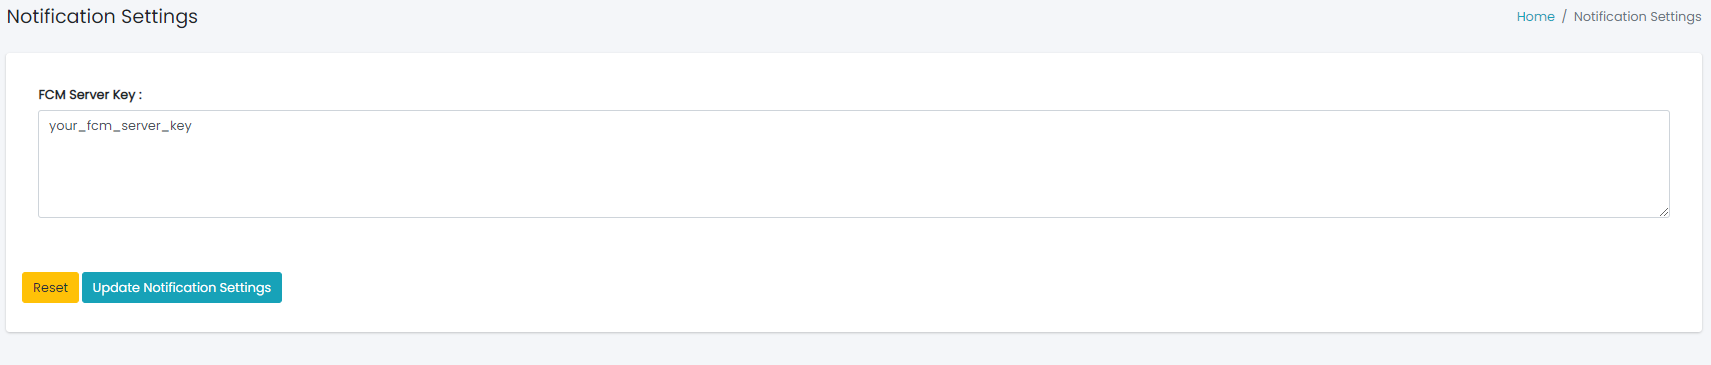
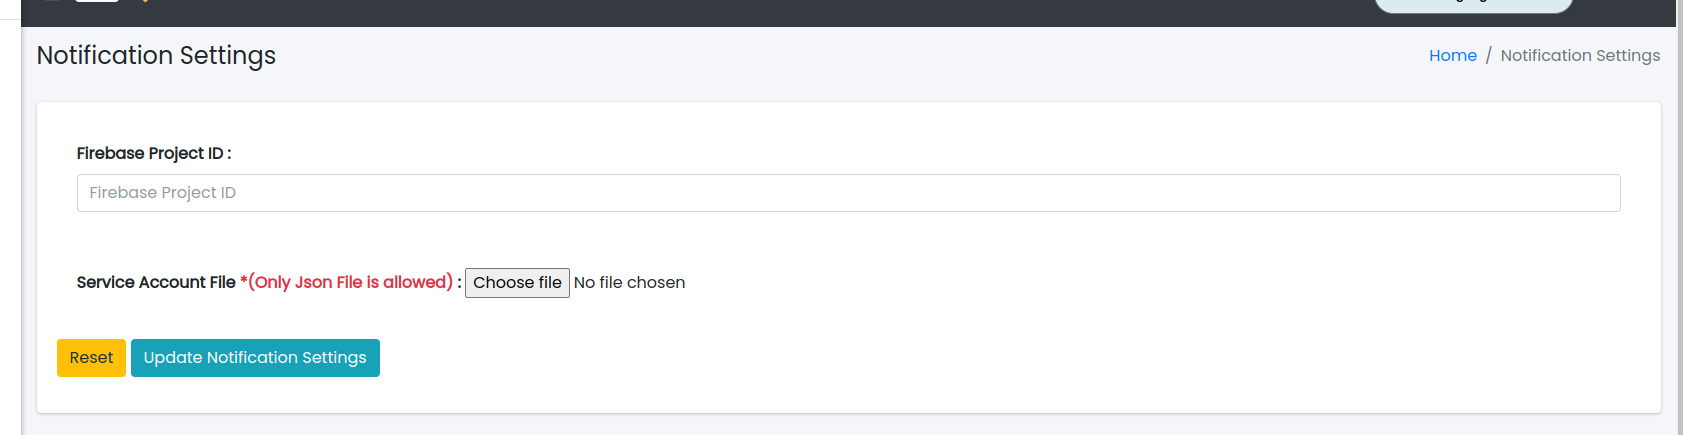
notification settings instructions changed

diff --git a/web/index.html b/web/index.html
@@ -891,6 +891,25 @@
                                 <img src="assets/images/notification-settings.png" class="image-doc" alt="">
                             </a>
                         </div>
+                        <ol>
+                            <li>In the Firebase console, go to Project Settings.</li>
+                            <li>Go to > General where Project Id is given add that to Admin Panel in System Settings >
+                                Notification Setting.</li>
+                        </ol>
+
+                        <h4><strong>Service Json File</strong></h4>
+                        <div class="simplelightbox-gallery">
+                            <a href="assets/images/service-json-file.png">
+                                <!-- notifcation setting page done -->
+                                <img src="assets/images/service-json-file.png" class="image-doc" alt="">
+                            </a>
+                        </div>
+                        <ol>
+                            <li>In the Firebase console, open Settings > Service Accounts.</li>
+                            <li>Click Generate New Private Key, then confirm by clicking Generate Key.</li>
+                            <li>Securely store the JSON file containing the key and upload in Admin Panel in System
+                                Settings > Notification Setting.</li>
+                        </ol>
                     </section>
                     <section class="docs-section" id="item-5-5">
                         <h2 class="section-heading">Contact us</h2>
